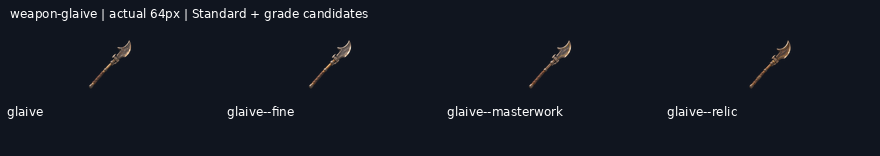
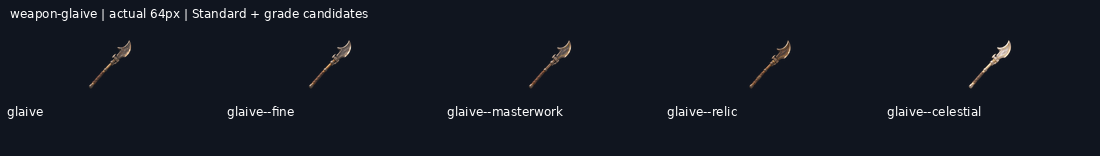
art: draw weapon-glaive--celestial grade candidate

diff --git a/art/_archive/gear/2026-11-19-kept-blade-grades/HANDOFF.md b/art/_archive/gear/2026-11-19-kept-blade-grades/HANDOFF.md
@@ -1,9 +1,9 @@
 # Kept-blade grade candidates
 
-**16/32 grade candidates delivered** on `art/2026-11-19-kept-blade-grades`. Shared mailbox: https://github.com/leonpentastorm/Project-Heaven-Cry/issues/3 . See claim.json for this lane’s current Standards. Released overlapping blades reuse12 peer candidates, with3 local alternatives archived.
+**17/32 grade candidates delivered** on `art/2026-11-19-kept-blade-grades`. Shared mailbox: https://github.com/leonpentastorm/Project-Heaven-Cry/issues/3 . See claim.json for this lane’s current Standards. Released overlapping blades reuse12 peer candidates, with3 local alternatives archived.
 
 Leon requested continuous candidate production; proof approval is not fabricated. All candidates remain review-candidate, production_approved:false, implementation_ready:false, with outline.review_required:true. Exact outline is measured, never asserted unless the masks match. Per-image registration is uniform scaling/translation only, without warp, silhouette masks, filled pixels or code-drawn substitutes. The generated native remains untouched.
 
 Each image is generated, shown, technically exported, validated, committed and pushed before the next. Sources, versioned masters, exact prompts/reference hashes,256/128/64/32 exports and grade comparison sheets are retained. Standards and earlier deliveries are unchanged. This sparse checkout cannot validate omitted historical files; full-library validation/build is an integration check on a full checkout.
 
-Remaining: weapon-ork_machete--masterwork, weapon-ork_machete--relic, weapon-ork_machete--celestial, weapon-war_axe--fine, weapon-war_axe--masterwork, weapon-war_axe--relic, weapon-war_axe--celestial, weapon-glaive--celestial, weapon-lance--fine, weapon-lance--masterwork, weapon-lance--relic, weapon-lance--celestial, weapon-maul--fine, weapon-maul--masterwork, weapon-maul--relic, weapon-maul--celestial.
+Remaining: weapon-ork_machete--masterwork, weapon-ork_machete--relic, weapon-ork_machete--celestial, weapon-war_axe--fine, weapon-war_axe--masterwork, weapon-war_axe--relic, weapon-war_axe--celestial, weapon-lance--fine, weapon-lance--masterwork, weapon-lance--relic, weapon-lance--celestial, weapon-maul--fine, weapon-maul--masterwork, weapon-maul--relic, weapon-maul--celestial.
